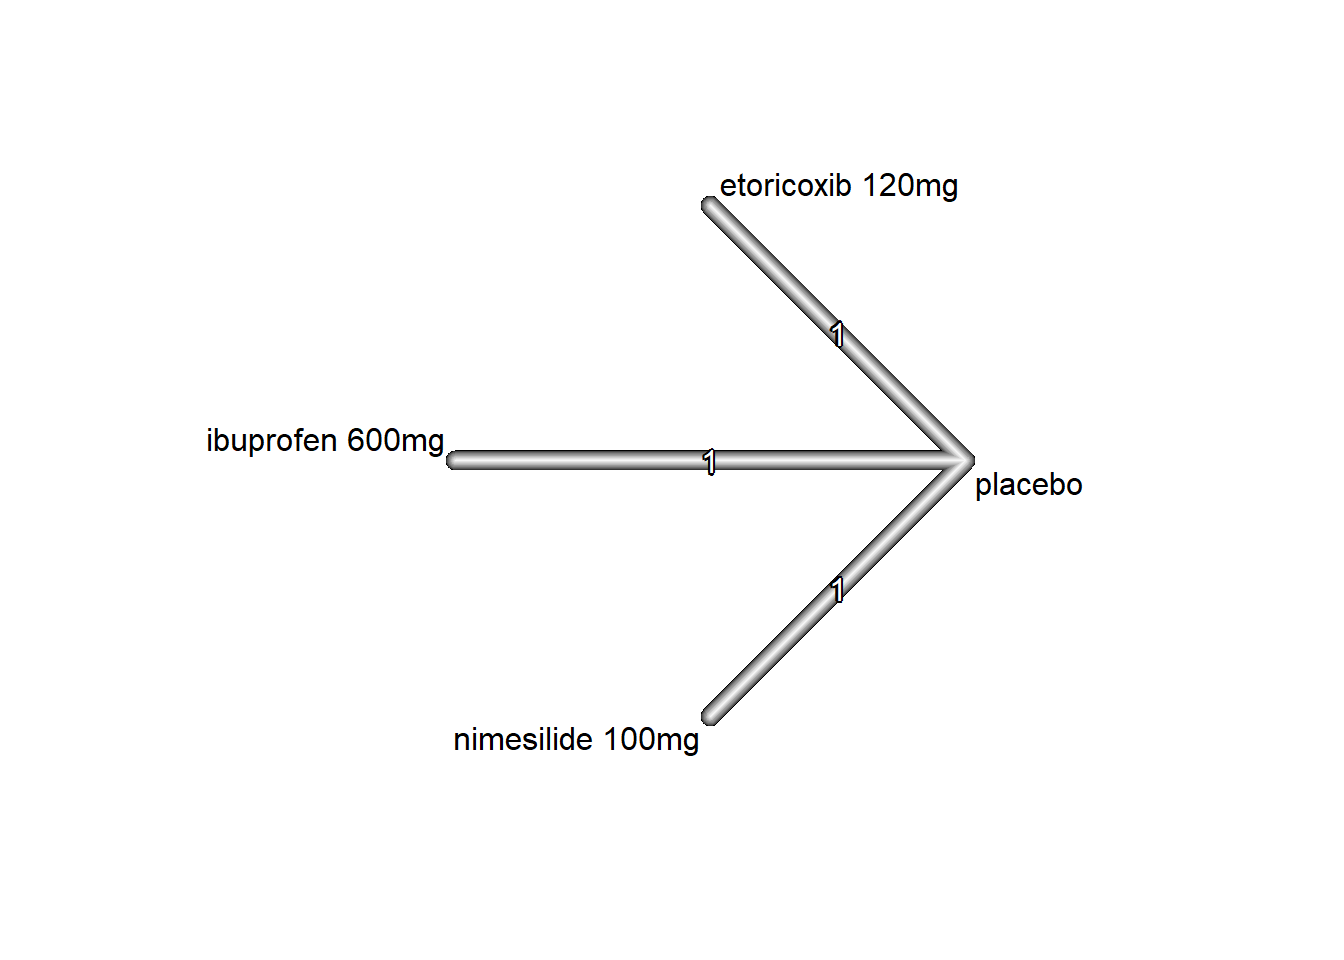
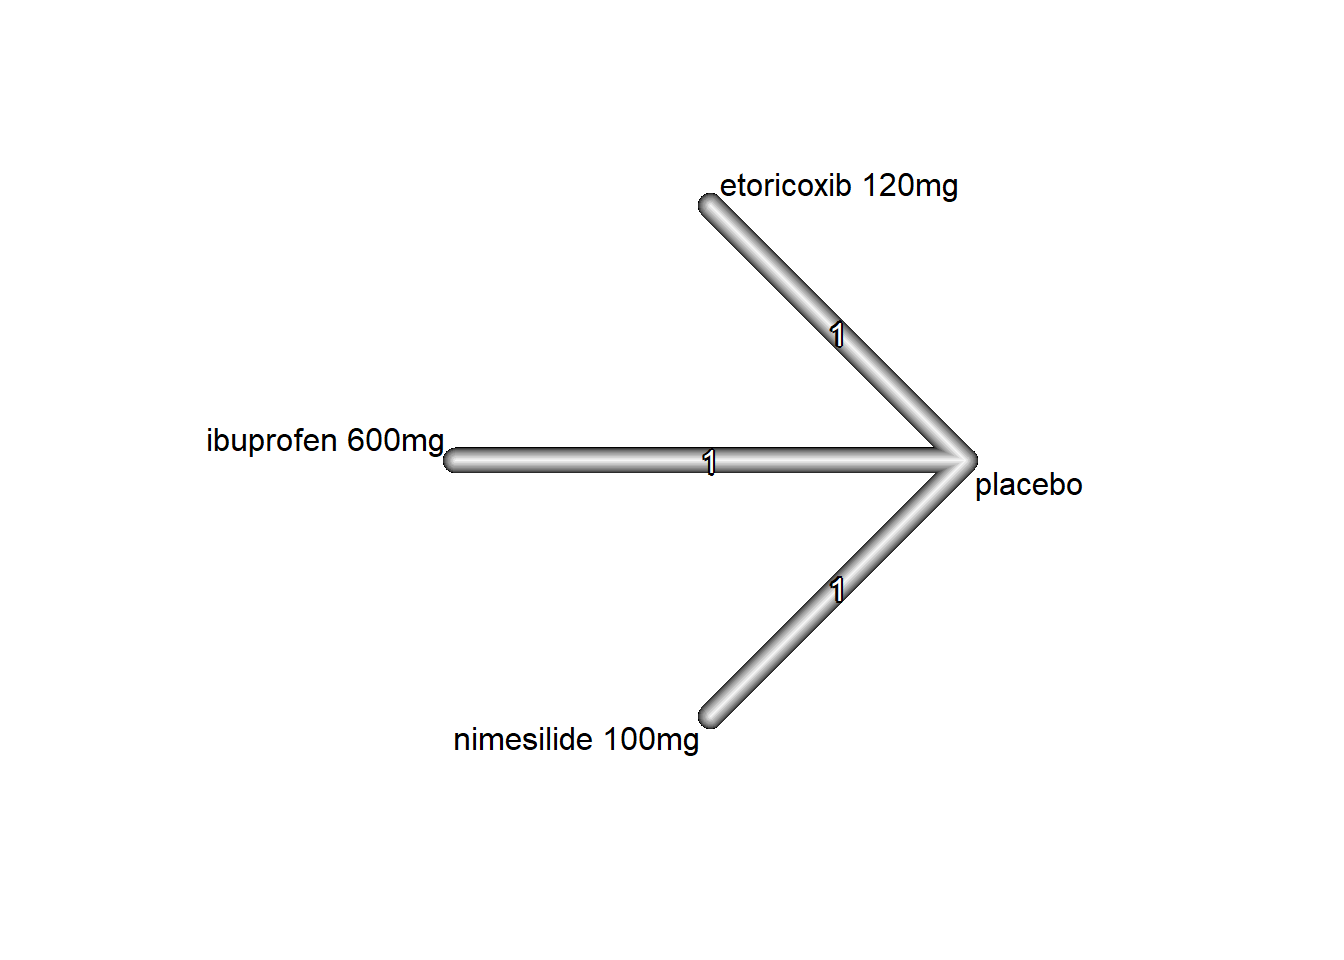
10/23/2024

Changed region(s): [[0.3125, 0.1875, 0.75, 0.75]]

diff --git a/docs/2023_0301_Christos_3days.html b/docs/2023_0301_Christos_3days.html
@@ -416,7 +416,7 @@ aria-hidden="true"></span> </a>
 <div class="tab-content">
 <div id="summary" class="tab-pane fade in active">
 <p>
-<strong>Last updated:</strong> 2024-10-14
+<strong>Last updated:</strong> 2024-10-23
 </p>
 <p>
 <strong>Checks:</strong> <span
@@ -576,15 +576,15 @@ analysis/Rfunctions.R
 <div class="panel panel-default">
 <div class="panel-heading">
 <p class="panel-title">
-<a data-toggle="collapse" data-parent="#workflowr-checks" href="#strongRepositoryversionstrongahrefhttpsgithubcomhan16Collaborationstree3956566e84b257a0108a838b7a7775b15bd06b61targetblank3956566a">
+<a data-toggle="collapse" data-parent="#workflowr-checks" href="#strongRepositoryversionstrongahrefhttpsgithubcomhan16Collaborationstree88f8895bf6cbaefca9de540c3f6d7d3eeb28fd08targetblank88f8895a">
 <span class="glyphicon glyphicon-ok text-success"
 aria-hidden="true"></span> <strong>Repository version:</strong>
-<a href="https://github.com/han16/Collaborations/tree/3956566e84b257a0108a838b7a7775b15bd06b61" target="_blank">3956566</a>
+<a href="https://github.com/han16/Collaborations/tree/88f8895bf6cbaefca9de540c3f6d7d3eeb28fd08" target="_blank">88f8895</a>
 </a>
 </p>
 </div>
 <div
[2 lines of base64/hex data omitted]
 class="panel-collapse collapse">
 <div class="panel-body">
 <p>
@@ -594,7 +594,7 @@ reproducibility.
 </p>
 <p>
 The results in this page were generated with repository version
-<a href="https://github.com/han16/Collaborations/tree/3956566e84b257a0108a838b7a7775b15bd06b61" target="_blank">3956566</a>.
+<a href="https://github.com/han16/Collaborations/tree/88f8895bf6cbaefca9de540c3f6d7d3eeb28fd08" target="_blank">88f8895</a>.
 See the <em>Past versions</em> tab to see a history of the changes made
 to the R Markdown and HTML files.
 </p>
@@ -614,12 +614,7 @@ Ignored files:
     Ignored:    analysis/2022_Mar2_Marinho_cache/
 
 Unstaged changes:
-    Modified:   analysis/2023_0301_Christos_1hour.Rmd
-    Modified:   analysis/2023_0301_Christos_24hour.Rmd
     Modified:   analysis/2023_0301_Christos_3days.Rmd
-    Modified:   analysis/2023_0301_Christos_3hour.Rmd
-    Modified:   analysis/2023_0301_Christos_6hour.Rmd
-    Modified:   analysis/2023_0301_Christos_8hour.Rmd
 
 </code></pre>
 <p>
@@ -666,6 +661,40 @@ Message
 </tr>
 </thead>
 <tbody>
+<tr>
+<td>
+Rmd
+</td>
+<td>
+<a href="https://github.com/han16/Collaborations/blob/e32c0195de76521f23c1ddc935f31c9731b30e46/analysis/2023_0301_Christos_3days.Rmd" target="_blank">e32c019</a>
+</td>
+<td>
+han
+</td>
+<td>
+2024-10-14
+</td>
+<td>
+10/14/2024
+</td>
+</tr>
+<tr>
+<td>
+html
+</td>
+<td>
+<a href="https://rawcdn.githack.com/han16/Collaborations/e32c0195de76521f23c1ddc935f31c9731b30e46/docs/2023_0301_Christos_3days.html" target="_blank">e32c019</a>
+</td>
+<td>
+han
+</td>
+<td>
+2024-10-14
+</td>
+<td>
+10/14/2024
+</td>
+</tr>
 <tr>
 <td>
 Rmd
@@ -1588,6 +1617,49 @@ han
 <h3>network meta-analysis</h3>
 <div id="random-effect-model" class="section level4">
 <h4>random effect model</h4>
+<pre class="r"><code>#########################
+treat1=treat2=study=character()
+
+for (i in 1:length(comparison))
+{
+  position=unlist(gregexpr(&#39;_&#39;, comparison[i]))
+  treat1[i]=substring(comparison[i],position[1]+1,last=position[2]-1)
+  treat2[i]=substring(comparison[i],position[3]+1,last=1000000L)
+  study[i]=substring(comparison[i], 1,last=position[1]-1)
+}
+
+
+m1 &lt;- metacont(samplesize_exp, mean_exp, sd_exp, samplesize_contr, mean_contr, sd_contr,
+  data = data_meta, sm = &quot;SMD&quot;)
+
+remove_index=2 # remove one ibuprofen 600mg in Santos, B. 
+
+data_meta_network=data.frame(study=study[-remove_index], TE=m1$TE[-remove_index], seTE=m1$seTE[-remove_index], treat1=treat1[-remove_index], treat2=treat2[-remove_index])
+m.netmeta &lt;- netmeta(TE = TE,
+                     seTE = seTE,
+                     treat1 = treat1,
+                     treat2 = treat2,
+                     studlab = study,
+                     tol.multiarm=0.1,
+                #     tol.multiarm.se = NULL,
+                     data = data_meta_network,
+                     sm = &quot;SMD&quot;,
+                     fixed = FALSE,
+                     random = TRUE,
+                     reference.group = &quot;placebo&quot;,
+                     details.chkmultiarm = TRUE,
+                     sep.trts = &quot; vs &quot;)
+#summary(m.netmeta)
+
+long.labels=m.netmeta$trts
+
+#netgraph(m.netmeta, 
+#         labels = long.labels, number.of.studies = TRUE,  srt.labels = 0, points=FALSE
+#         )
+
+netgraph(m.netmeta, 
+         labels = long.labels, number.of.studies = TRUE,  srt.labels = 0,  lwd.max=13
+         )</code></pre>
 <p><img src="figure/2023_0301_Christos_3days.Rmd/unnamed-chunk-20-1.png" width="672" style="display: block; margin: auto;" /></p>
 <p>
 <button type="button" class="btn btn-default btn-xs btn-workflowr btn-workflowr-fig" data-toggle="collapse" data-target="#fig-unnamed-chunk-20-1">
@@ -1648,6 +1720,7 @@ han
 </table>
 </div>
 </div>
+<pre class="r"><code># lwd.max setting the line thickness  </code></pre>
 <p><img src="figure/2023_0301_Christos_3days.Rmd/unnamed-chunk-21-1.png" width="672" style="display: block; margin: auto;" /></p>
 <p>
 <button type="button" class="btn btn-default btn-xs btn-workflowr btn-workflowr-fig" data-toggle="collapse" data-target="#fig-unnamed-chunk-21-1">
@@ -1825,6 +1898,43 @@ han
 </div>
 <pre class="r"><code>funnel(m.netmeta, order=unique(m.netmeta$treat1), pch=seq(1:3), col=seq(1:3), linreg = F,  legend = F, digits.pval=2)</code></pre>
 <p><img src="figure/2023_0301_Christos_3days.Rmd/unnamed-chunk-25-2.png" width="672" style="display: block; margin: auto;" /></p>
+<p>
+<button type="button" class="btn btn-default btn-xs btn-workflowr btn-workflowr-fig" data-toggle="collapse" data-target="#fig-unnamed-chunk-25-2">
+Past versions of unnamed-chunk-25-2.png
+</button>
+</p>
+<div id="fig-unnamed-chunk-25-2" class="collapse">
+<div class="table-responsive">
+<table class="table table-condensed table-hover">
+<thead>
+<tr>
+<th>
+Version
+</th>
+<th>
+Author
+</th>
+<th>
+Date
+</th>
+</tr>
+</thead>
+<tbody>
+<tr>
+<td>
+<a href="https://github.com/han16/Collaborations/blob/e32c0195de76521f23c1ddc935f31c9731b30e46/docs/figure/2023_0301_Christos_3days.Rmd/unnamed-chunk-25-2.png" target="_blank">e32c019</a>
+</td>
+<td>
+han
+</td>
+<td>
+2024-10-14
+</td>
+</tr>
+</tbody>
+</table>
+</div>
+</div>
 </div>
 <div id="fixed-effect-model" class="section level4">
 <h4>fixed effect model</h4>
